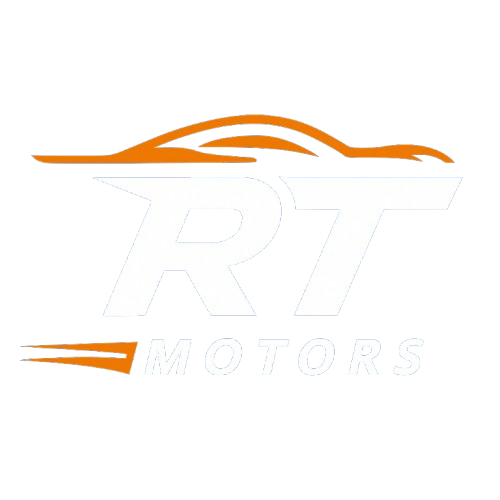
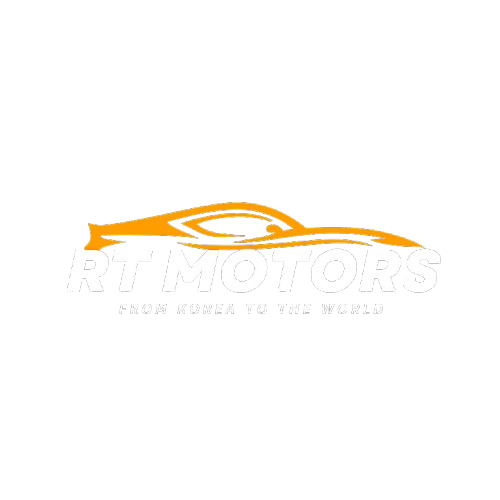
@W@W@~

diff --git a/client/src/components/shared/team.tsx b/client/src/components/shared/team.tsx
@@ -13,21 +13,21 @@ const teamMembers: Member[] = [
     name: "Akhliddin Teshaboev",
     role: "CEO",
     avatar:
-      "/team/ceo.jpg",
+      "/team/c1.jpg",
     contact : "+8210-2989-8641"
   },
   {
     name: "Rakhmatilla Akhmedov",
     role: "Operation Manager",
     avatar:
-      "/team/operation_m.jpg",
+      "/team/o1.jpg",
     contact : "+8210-9687-9796"
   },
   {
     name: "Bekmurod Abdullaev",
     role: "Marketing Manager",
     avatar:
-      "/team/sales_m.jpg",
+      "/team/sa1.jpg",
     contact : "+8210-8465-8085"
   },
   {

diff --git a/client/src/components/shared/navbar.tsx b/client/src/components/shared/navbar.tsx
@@ -37,7 +37,7 @@ export const Navbar = () => {
   return (
   <div className={cn("absolute bg-transparent  left-0 w-full top-0 h-[12vh]  flex items-center justify-between px-[5%] z-50", pathname === "/" ? "text-white" : "text-black")}>
       <Link to={"/"}>
-       <img src="/white.png" alt="RT Motors" className="w-20" />
+       <img src="/white.png" alt="RT Motors" className="w-34" />
        </Link>
       <div className="hidden md:flex items-center gap-4">
         <ul className="flex items-center gap-8 text-white">

diff --git a/client/src/pages/about.tsx b/client/src/pages/about.tsx
@@ -49,7 +49,7 @@ export const About = () => {
       </div>
       <div className="flex flex-col justify-center items-center text-center px-8 py-12 bg-[#1e2550]">
           <img
-            src="/logo.png"
+            src="/head.png"
             alt="Company Logo"
             className="w-32 h-32 md:w-48 md:h-48 drop-shadow-lg "
           />
